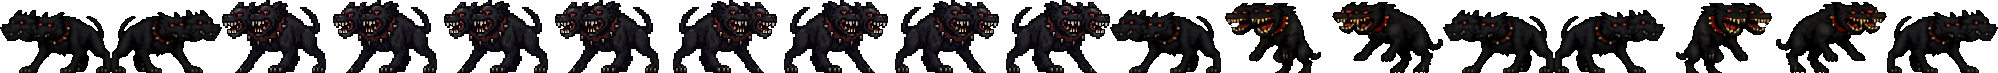
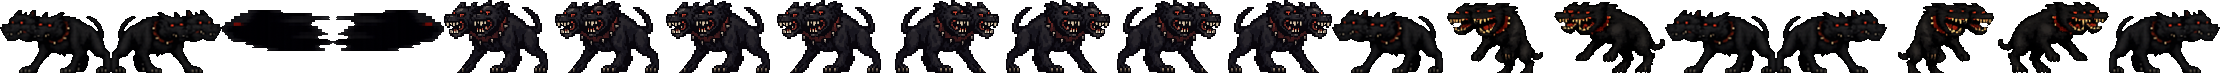
animation boss2 dash

diff --git a/phaser/js/scenes/niveau2.js b/phaser/js/scenes/niveau2.js
@@ -220,29 +220,40 @@ export default class Niveau2 extends Basescene {
       frameRate: 1,
       repeat: -1
     });
-
+    this.anims.create({
+      key: "boss2_dash_left",
+      frames: [{ key: "img_boss2", frame: 2 }],
+      frameRate: 4,
+      repeat: 0
+    });
+    this.anims.create({
+      key: "boss2_dash_right",
+      frames: [{ key: "img_boss2", frame: 3 }],
+      frameRate: 4,
+      repeat: 0
+    });
     this.anims.create({
       key: "boss2_attack_left",
-      frames: this.anims.generateFrameNumbers("img_boss2", { start: 2, end: 5 }),
+      frames: this.anims.generateFrameNumbers("img_boss2", { start: 4, end: 7 }),
       frameRate: 4,
       repeat: 0
     });
 
     this.anims.create({
       key: "boss2_attack_right",
-      frames: this.anims.generateFrameNumbers("img_boss2", { start: 6, end: 9 }),
+      frames: this.anims.generateFrameNumbers("img_boss2", { start: 8, end: 11 }),
       frameRate: 4,
       repeat: 0
     });
     this.anims.create({
       key: "boss2_jump_left",
-      frames: this.anims.generateFrameNumbers("img_boss2", { start: 10, end: 13 }),
+      frames: this.anims.generateFrameNumbers("img_boss2", { start: 12, end: 15 }),
       frameRate: 2,
       repeat: 0
     });
     this.anims.create({
       key: "boss2_jump_right",
-      frames: this.anims.generateFrameNumbers("img_boss2", { start: 14, end: 17 }),
+      frames: this.anims.generateFrameNumbers("img_boss2", { start: 16, end: 19 }),
       frameRate: 2,
       repeat: 0
     });

diff --git a/phaser/js/entities/boss2.js b/phaser/js/entities/boss2.js
@@ -55,8 +55,8 @@ export default class Boss2 extends Enemy {
     }
     else if (this.state === "dash") {
       if (this.direction === 1)
-        this.anims.play("boss2_idle_right", true);
-      else this.anims.play("boss2_idle_left", true);
+        this.anims.play("boss2_dash_right", true);
+      else this.anims.play("boss2_dash_left", true);
     }
     else if (this.state === "shoot") {
       if (this.direction === 1)
